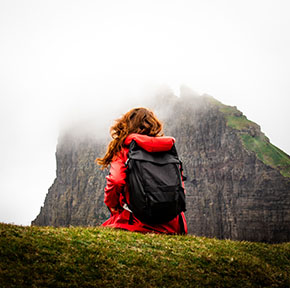
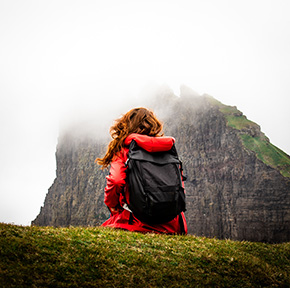
Opdate
The images had bad pixel so I hade to remove them and fix in photoshop.
It took me a long time to align some of the items on the page right.

Fixed some wrongs that had happen like margin in the footer.

Found a lot of help on stackoverflow and css-tricks. Now I will look over and see if everything is done before i start @media.

diff --git a/css/style.css b/css/style.css
@@ -17,44 +17,83 @@
 }
 
 body {
-    font-family: "Tahoma", "Roboto", Roboto, Geneva;
+    font-family: "Tahoma", "Roboto", sans-serif, Geneva;
     min-height: 100vh;
     margin: 0px;
     display: grid;
     grid-template-rows: auto 1fr auto;
     position: flex;
 }
-
-h1 {
-    font-family: "tahoma";
-    font-weight: 100;
-    font-size: 1.1em;
-    color:#103040;
-    text-align: center;
-}
-
-p {
-    font-family: "Roboto";
-    font-weight: 90;
-    font-size: 1em;
-    color: #0F4E57;
-    text-align: center;
-}
-
-.logo {
-    display:
+main {
+    padding: 0 5px 20px;
 }
 header,
 footer {
    background-color:#0B4A4072;
    color: #fff;
    min-height: 50px; 
-   position: flex;
-   padding: 10px;
+   
 }
 
-nav {
+.fa-solid {
+    font-size: 30px;
+    margin: 5px;
+}
+
+.hamburger {
+    font-family: "Tahoma";
+    position: fixed;
     display: none;
+    background: #103040;
+    top: 0;
+    left: 0;
+    width: 50%;
+    height: 80%;
+    padding: 60px 0;
+}
+
+.hamburger ul, .hamburger ul li {
+    list-style: none;
+    padding: 0;
+    margin: 0;
+}
+
+.hamburger ul {
+    display: grid;
+        grid-gap: 20px;
+        max-width: 80%;
+}
+
+.hamburger ul li a {
+    text-decoration: none;
+    color: #103040;
+    background: #fff;
+    padding: 20px;
+    padding: 20px;
+    display: block;
+    position: relative;
+}
+
+.hamburger ul li a i {
+    position: absolute;
+        right: 10px;
+        top: 50%;
+        margin-top: -15px;
+}
+
+.close_btn {
+    color: #fff;
+    text-decoration: none;
+    margin: 0;
+    position: absolute;
+    top: 10px;
+    right: 10px;
+}
+
+.close_btn i {
+    margin: 0;
+    padding: 0;
+    font-size: 20px;;
 }
 
 #hamburger-menu {
@@ -66,38 +105,184 @@ nav {
     display: block;
 }
 
+#overlay {
+    display: block;
+}
+
 .icon1,
 .icon2 {
     float: right; 
     position: absolute;
+    margin: 5px;
+    font-size: 20px;
+    margin: 10px 10px;
 }
 .icon1 {
-    margin: 5px;
     right: 35px;
 }
 
 .icon2 {
-    margin: 5px;
     right: 10px;
 }
 
+.icon5 {
+  float: right;
+  font-size: 40px;
+  margin-top: 80px;
+  display: block;
+}
+
+.logo_image {
+    display: block;
+    margin: 2px auto;
+    padding-bottom: 20px;
+    width: 250px;
+}
+
 footer {
-    margin: 5px;
+    /*margin: 5px;*/
     text-align: center;
 }
 
 .icon3,
 .icon4 {
     float: left;
+    margin: 5px;
+    color: #fff;
+    font-size: 20px;
 }
 
 .icon3 {
     left: 10px;
-    margin: 5px;
 }
 
 .icon4 {
     left: 30px;
-    margin: 5px;
+}
+.hero {
+    text-align: center;;
 }
 
+.welcome_content {
+    /*background-image: url(../images/woman-mountain-mobile.jpg);*/
+    background-size: 50vh;
+    background-repeat: no-repeat;
+    background-position-x: center;
+    background-position-y: top;
+    /*min-height: 70vh;*/
+}
+.welcome_content h1 {
+    position: relative;
+}
+
+.welcome_content h1:before {
+    display: block;
+    content: "";
+    background: url(../images/x-symbol.png) no-repeat;
+    background-size: auto;
+    width: 17px;
+    height: 16px;
+    background-size: 17px 16px;
+    position: absolute;
+    left: 0;
+    top: 4px;
+}
+
+.welcome_content h1:after {
+    display: block;
+    content: "";
+    background: url(../images/x-symbol.png) no-repeat;
+    background-size: auto;
+    width: 17px;
+    height: 16px;
+    background-size: 17px 16px;
+    position: absolute;
+    right: 0;
+    top: 4px;
+}
+
+h1 {
+    font-family: "tahoma";
+    font-weight: 100;
+    font-size: 1.1em;
+    color: #103040;
+    text-align: center;
+}
+
+p {
+    font-family: "Roboto";
+    font-weight: 90;
+    font-size: 1em;
+    color: #0F4E57;
+    text-align: center;
+}
+
+h2 {
+    font-family: "Roboto";
+    font-weight: 90;
+}
+
+h3 {
+    font-family: "Roboto";
+    font-weight: 80;
+    font-size: 1em;
+    color: #0F4E57;
+    text-align: center;
+}
+
+.cta {
+    background-color: #0B4A40;
+        color: #fff;
+        font-size: 1em;
+        /*text-transform: uppercase;*/
+        padding: 20px 0;
+        border-radius: 50px;
+        font-family: "Roboto";
+        font-weight: 90;
+        display: block;
+        text-align: center;
+        max-width: 280px;
+        margin: 30px auto;
+        text-decoration: none;
+        font-size: 1.9em;
+}
+
+.bestselling_products {
+/*    display: grid;
+    grid-template-columns: 1 fr 1 fr;*/
+    align-items: inline center; 
+    /*grid-gap: 20px;*/
+
+}
+
+.bestselling_products img {
+    grid-column: -1/1;
+    width: 100%;
+    min-height: 177px;
+    object-fit: contain;
+}
+
+.product_container {
+    display: flex;
+    flex-direction: row;
+    justify-content: center;
+    gap: 10px;
+}
+
+.product_container > div {
+    width: 40%;;
+    border: 1px solid #000;
+    padding: 10px;
+    text-align: center;
+}
+
+.product_container > div * {
+    text-align: center;
+    margin: 0;
+}
+
+.copy {
+    float: right;
+    color: #fff;
+    margin-right: 10px;
+}

diff --git a/index.html b/index.html
@@ -12,50 +12,54 @@
    <header>
       <label for="hamburger-menu"><i class="fa-solid fa-bars"></i></label>
       <input type="checkbox" id="hamburger-menu" />
-         <nav>
+         <nav class="hamburger">
            <ul>
-              <li><a href="jacket-spesific.html" class="active">Show jackets</a></li>
+              <li><a href="jacket-spesific.html">Show jackets</a></li>
               <li><a href="about.html">About</a></li>
-              <li><a href="contact.html">Contact</a><i class="fa-solid fa-circle-user"></i></li>
+              <li><a href="contact.html">Contact <i class="fa-solid fa-circle-user"></i></a>
            </ul>
-         </nav>
-       <label type="contact"><i class="fa-solid fa-circle-user icon1"></i></label>
-       <label type="cart"><i class="fa-solid fa-cart-shopping icon2"></i></label>
+           <a class="close_btn" type="X" href="index.html"><i class="fa-solid fa-x icon5"></i></a>
+           <div class="overlay" id="overlay"></div>
+          </nav>
+       <label href="contact.html" type="contact"><i class="fa-solid fa-circle-user icon1"></i></label>
+       <label href="cart.html" type="cart"><i class="fa-solid fa-cart-shopping icon2"></i></label>
       <div class="logo">
-        <img href="index.html" src="images/RainyDays_Logo small.png" alt="RainyDays_Logo" class="logo">
-       </div>
+        <img href="index.html" src="images/RainyDays_Logo small.png" class="logo_image" alt="RainyDays_Logo">
+      </div>
    </header>
    <main>
        <section class="welcome_content">
-         <div><img src="images/woman-mountain-mobile.jpg">
-        </div>
-           <h1> X Rain jackets for those RAINYDAYS X</h1>
-           <p>Designed for a active life. For him and her. </p>
-       </section> 
-       <section class="show_jackets">
-           <a href="jacket-spesific.html" class="cta">View jackets </a>
-       </section>
-       <section class="bestselling">
-         <h2>Our bestselling jackets</h2>
-         <div>
-           <img src="images/RainyDays_Jacket3 mobile.png" alt="Red jacket Scott" />
-           <h3>Scott jacket</h3>
-           <p>1500 kr</p>
-           <a href="jacket-spesific.html">View</a>
+         <div class="hero">
+          <img src="/images/woman-mountain-mobile.jpg" alt="" />
+          <h1>Rain jackets for those RAINYDAYS</h1>
+          <p>Designed for a active life. For him and her. </p>
          </div>
-          <div>
-            <img src="images/RainyDays_Jacket4 mobile.png" alt="Black jacket Scott" />
+          <a href="jacket-spesific.html" class="cta">Show jackets</a>
+       </section> 
+       
+       <section class="bestselling">
+        <h3>Our bestselling jackets</h3>
+         <div class="product_container">
+          <div class="bestselling_products">
+            <img src="images/RainyDays_Jacket3 mobile.jpg" alt="Red jacket Scott" />
             <h3>Scott jacket</h3>
             <p>1500 kr</p>
-            <a href="jacket-spesific.html">View</a>
           </div>
+          <div class="bestselling_products">
+            <img src="images/RainyDays_Jacket4_mobile.jpg" alt="Black jacket Scott" />
+            <h3>Scott jacket</h3>
+            <p>1500 kr</p>
+            <a href="jacket-spesific.html"></a>
+          </div>
+         </div>
+         
+         
        </section>
    </main>
    <footer>
-    <i class="fa-brands fa-instagram icon3"></i>
-    <i class="fa-brands fa-facebook-square icon4"></i>
-    Copyright &copy
+    <a href="https://www.instagram.com/rainydaydeals/"><i class="fa-brands fa-instagram icon3"></i></a>
+    <a href="https://www.facebook.com/rainydaydeals/"><i class="fa-brands fa-facebook-square icon4"></i></a>
+    <p class="copy">Copyright &copy</p>
    </footer>
-
  </body>
 </html>
